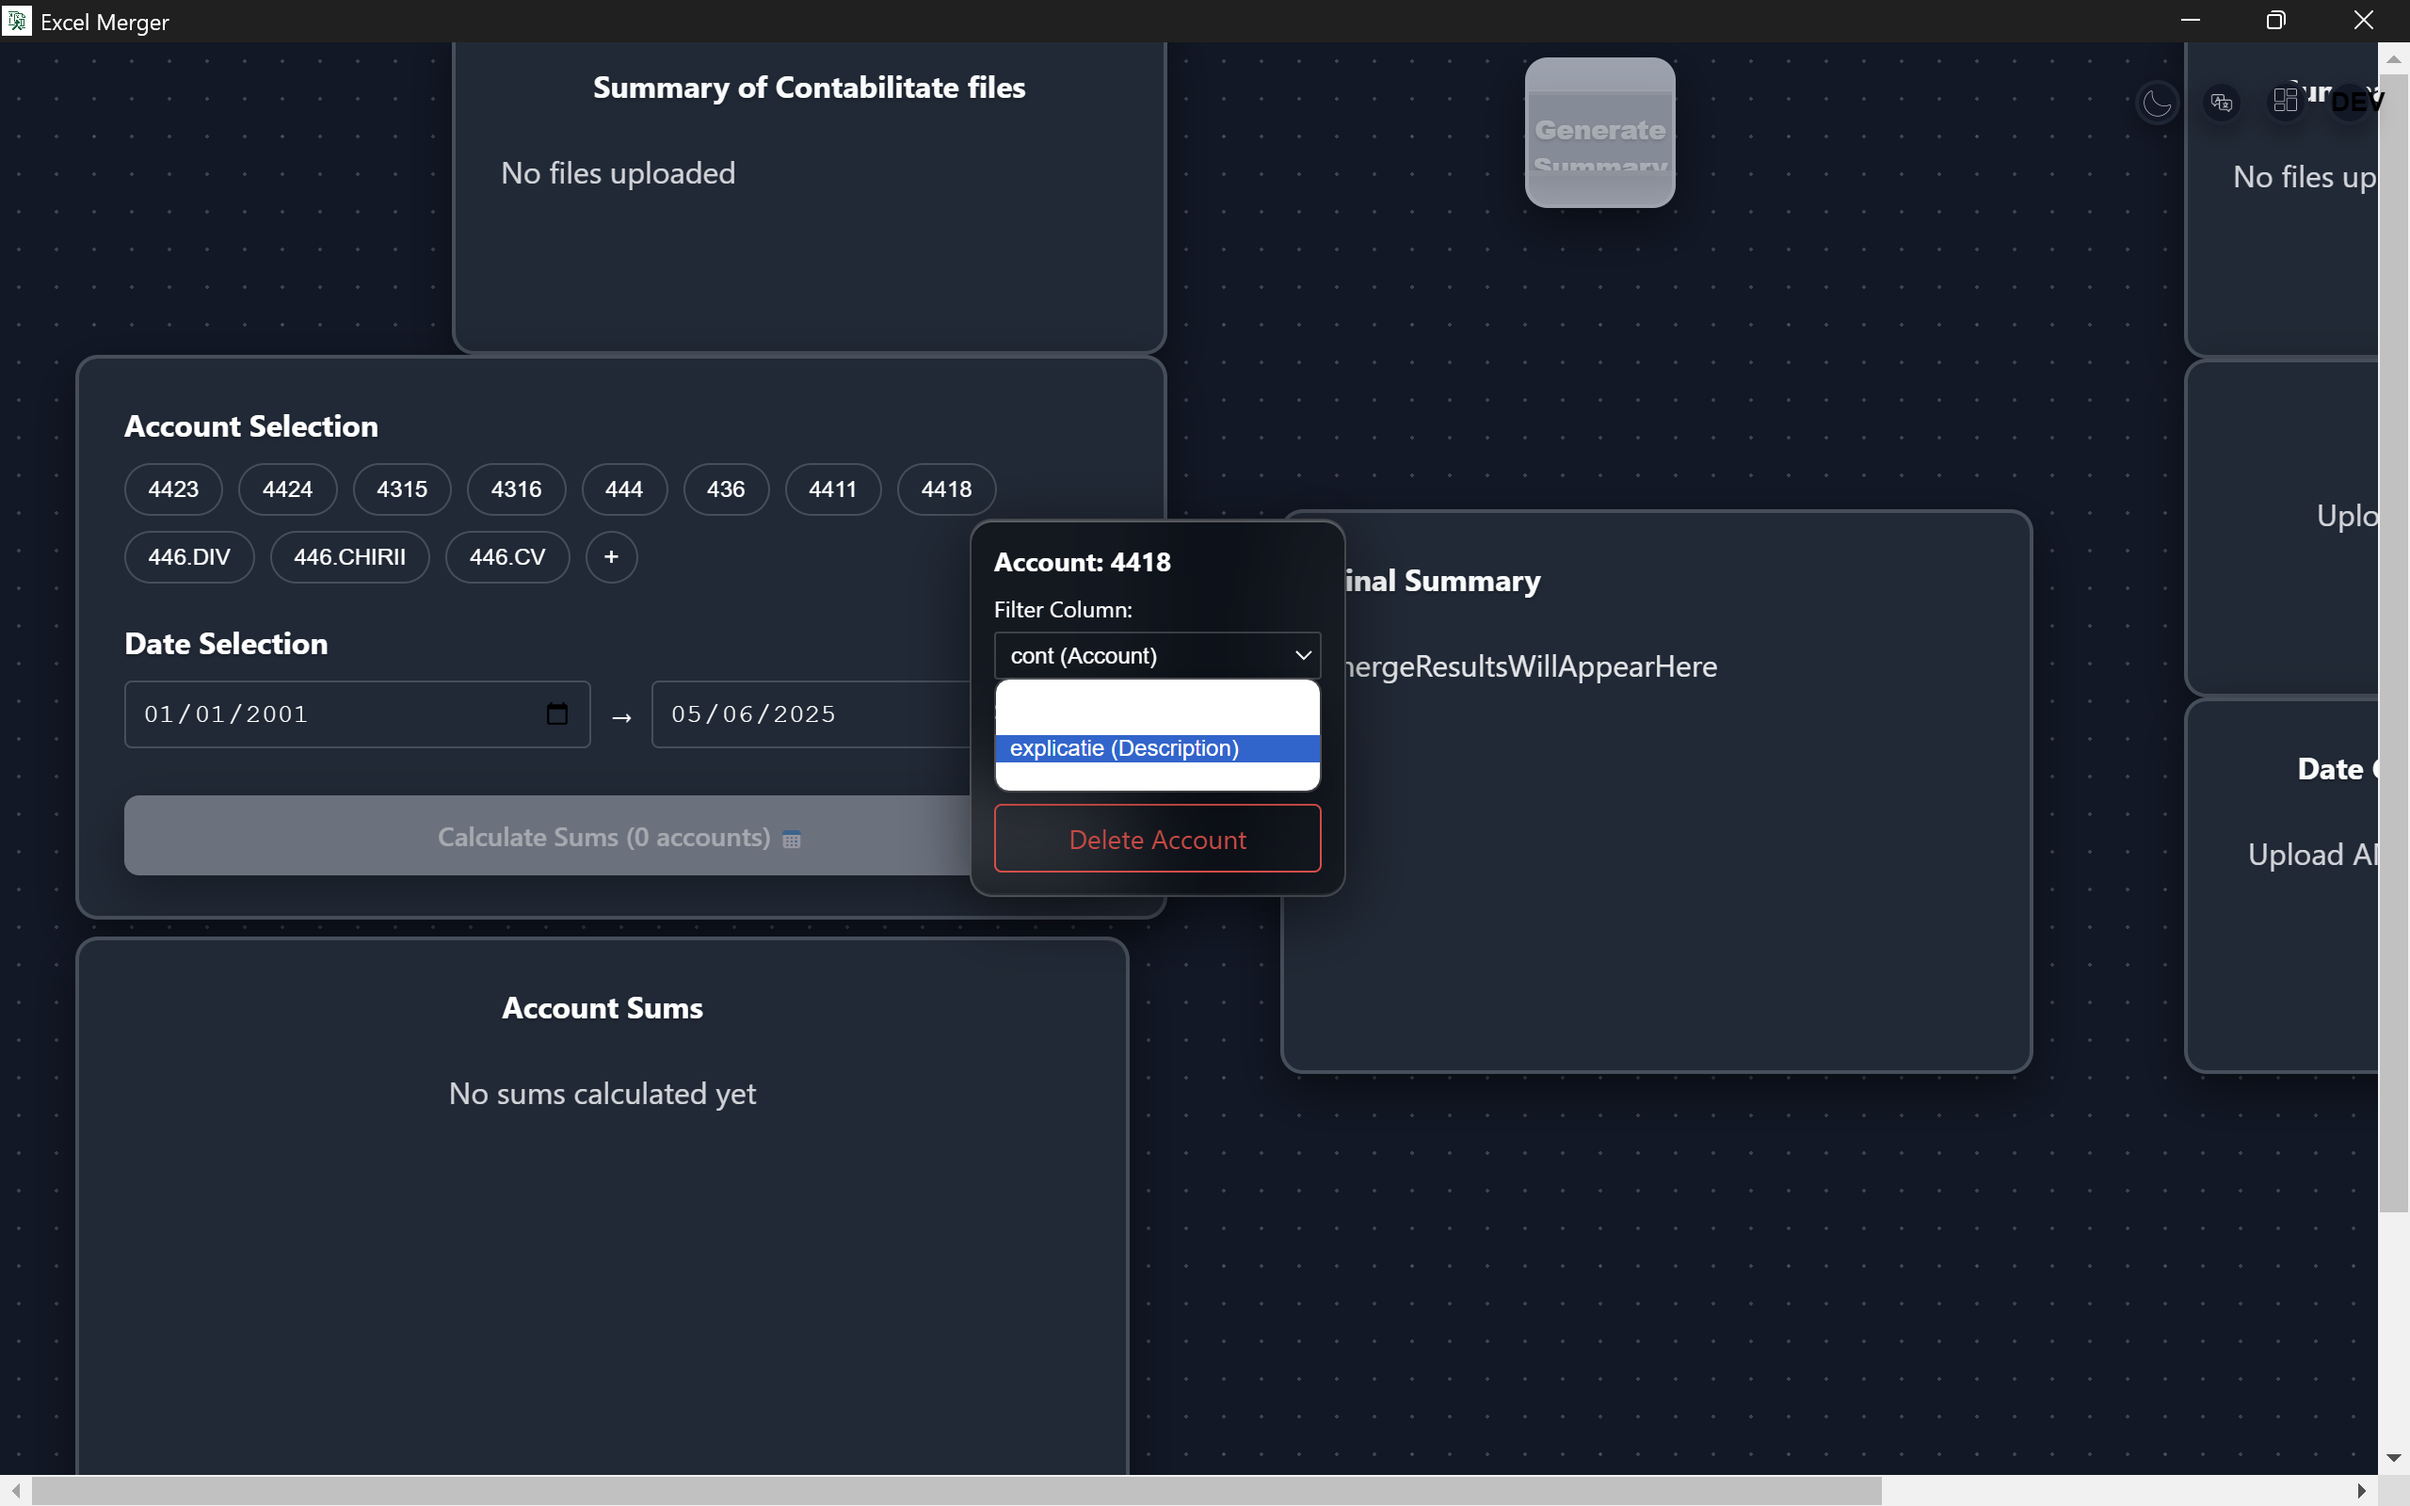
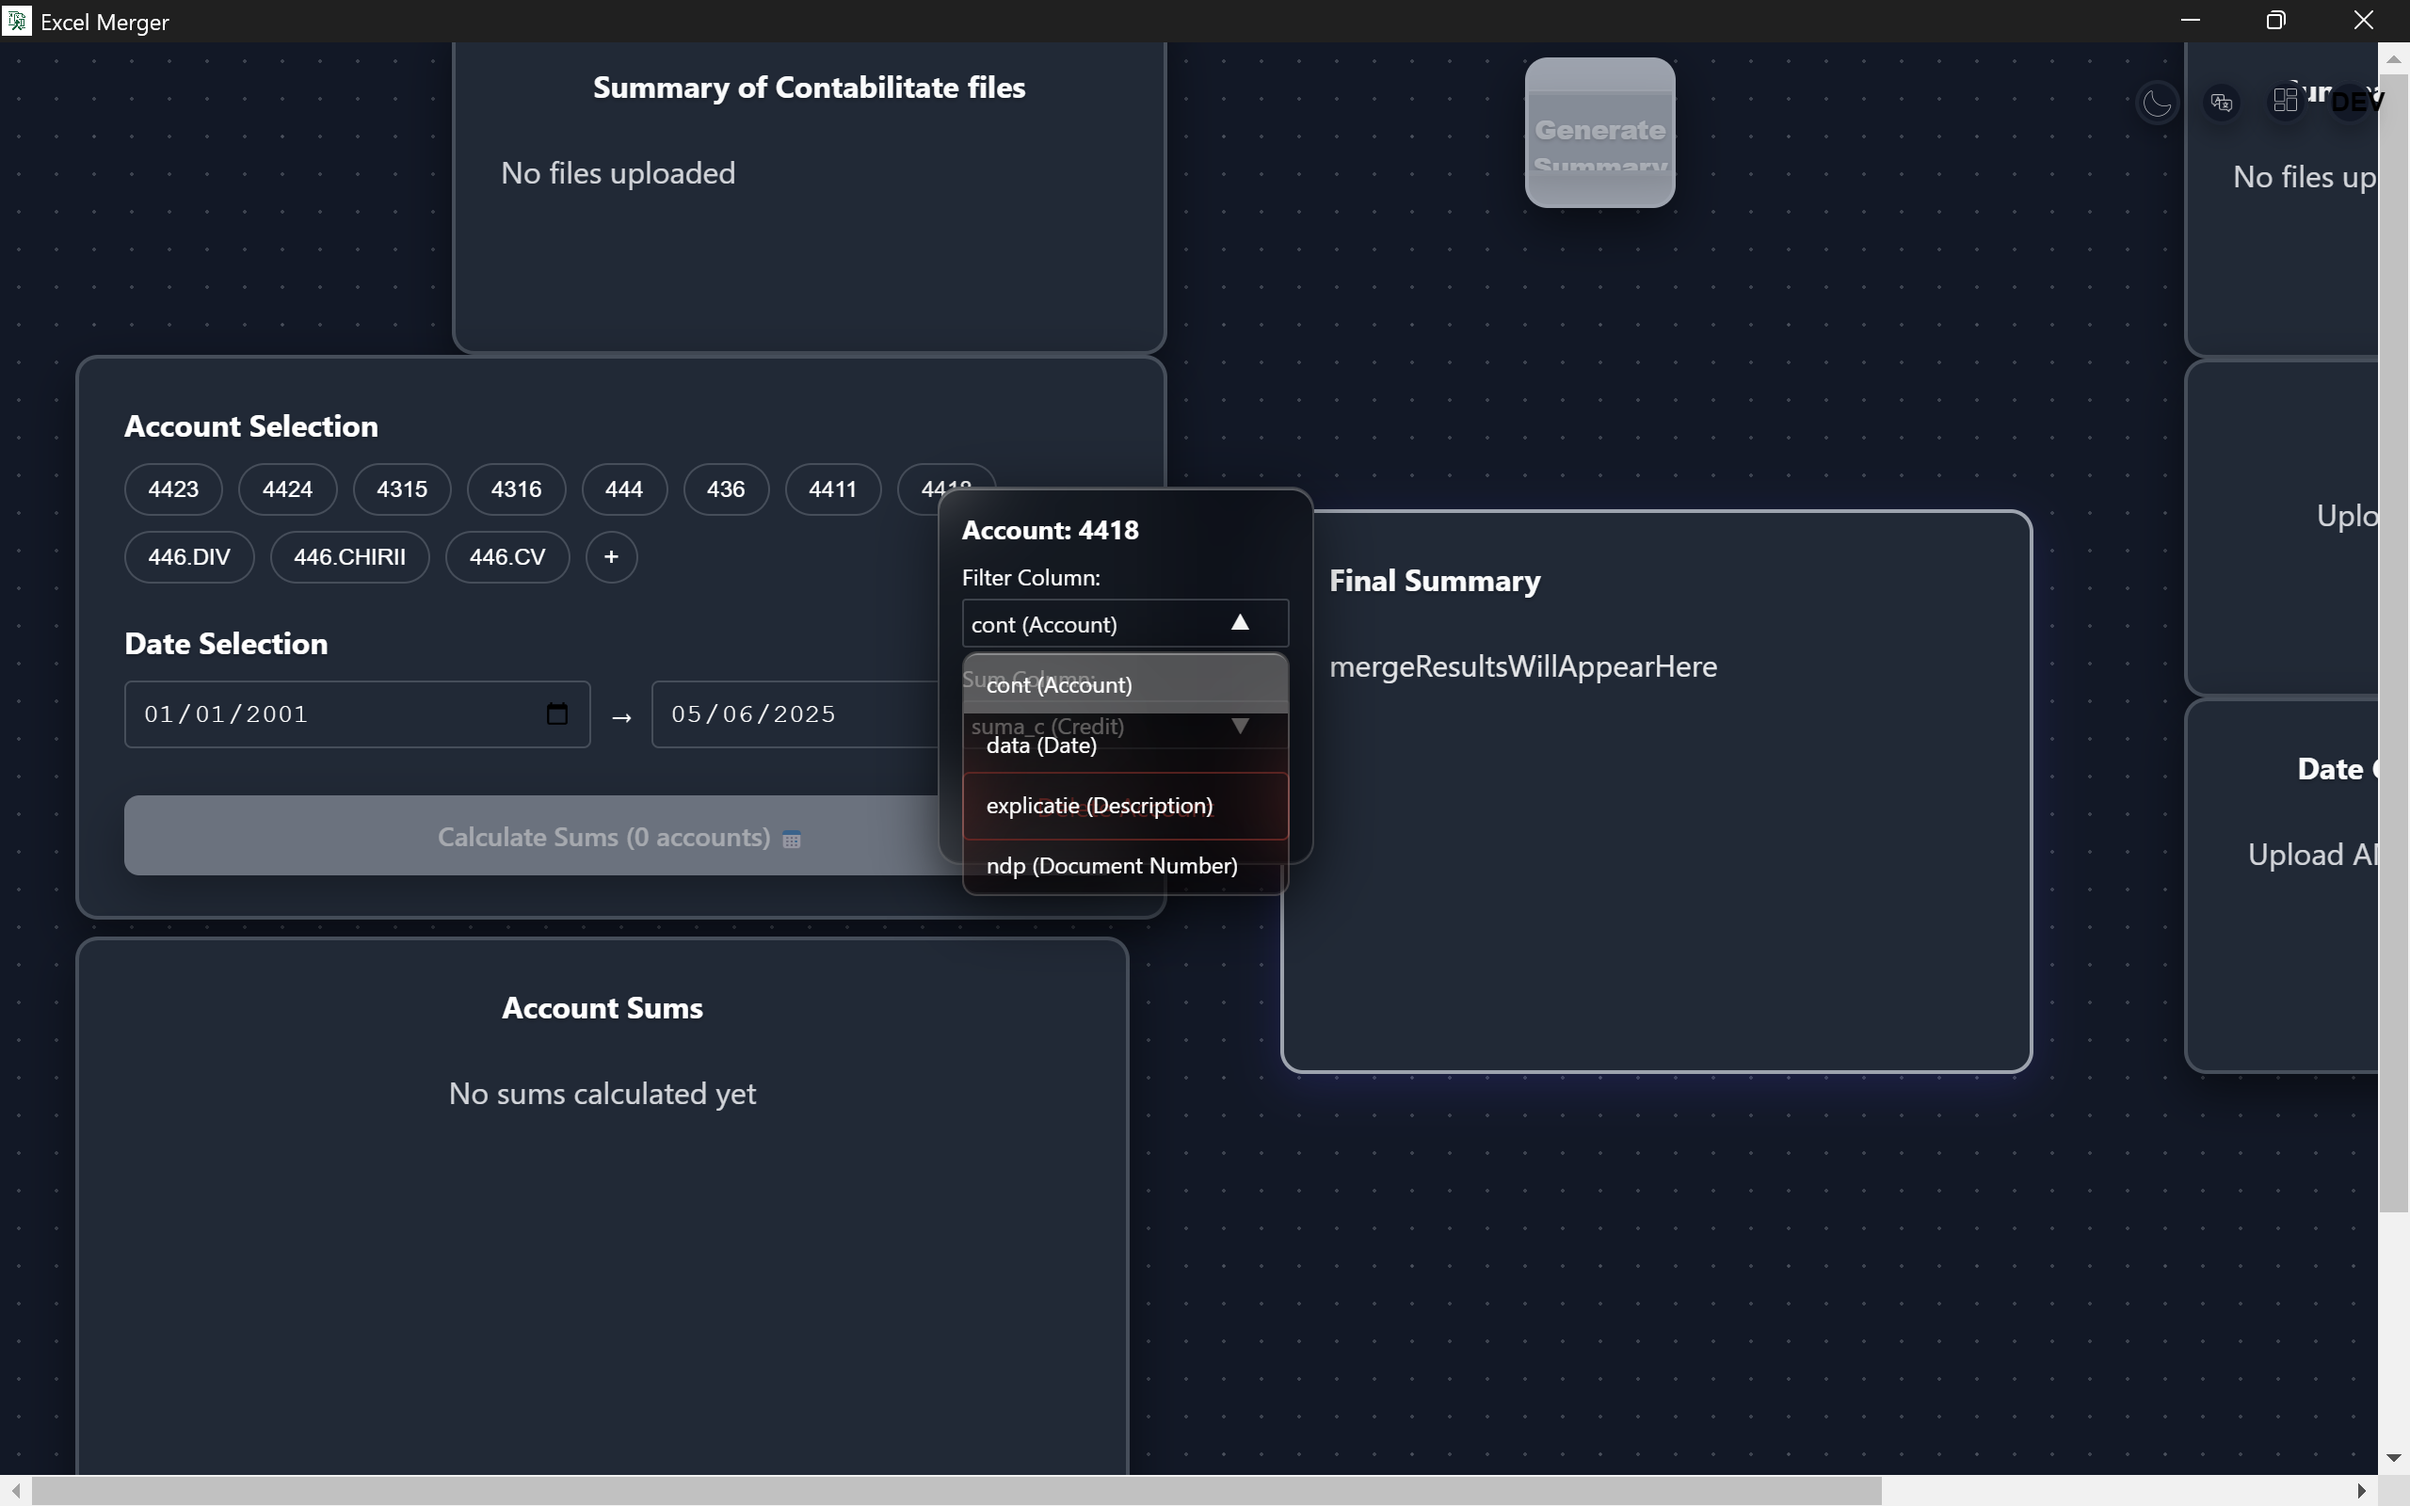
Add glass morphism effect to individual dropdown options with hover states 🤖 Generated with [Claude Code](https://claude.ai/code) Co-Authored-By: Claude <noreply@anthropic.com>

Changed region(s): [[0.375, 0.3125, 0.5625, 0.5938], [0.5312, 0.6875, 0.8438, 0.75]]

diff --git a/src/App.js b/src/App.js
@@ -4110,17 +4110,30 @@ function App() {
                       cursor: 'pointer',
                       borderRadius: index === 0 ? '8px 8px 0 0' : 
                                   index === arr.length - 1 ? '0 0 8px 8px' : '0',
-                      backgroundColor: getAccountConfig(contextMenu.account).filterColumn === option.value ? 
-                                     'var(--glass-highlight, rgba(255, 255, 255, 0.3))' : 'transparent'
+                      background: getAccountConfig(contextMenu.account).filterColumn === option.value ? 
+                        'var(--glass-bg, rgba(255, 255, 255, 0.85))' : 'var(--glass-bg, rgba(255, 255, 255, 0.6))',
+                      backdropFilter: 'blur(15px)',
+                      WebkitBackdropFilter: 'blur(15px)',
+                      border: getAccountConfig(contextMenu.account).filterColumn === option.value ? 
+                        '1px solid var(--glass-border, rgba(0, 0, 0, 0.2))' : '1px solid transparent',
+                      boxShadow: getAccountConfig(contextMenu.account).filterColumn === option.value ? 
+                        `0 2px 8px var(--glass-shadow, rgba(0, 0, 0, 0.1)),
+                         inset 0 1px 0 var(--glass-highlight, rgba(255, 255, 255, 0.8))` : 'none',
+                      margin: '2px',
+                      transition: 'all 0.2s ease'
                     }}
                     onMouseEnter={(e) => {
                       if (getAccountConfig(contextMenu.account).filterColumn !== option.value) {
-                        e.target.style.backgroundColor = 'var(--glass-lowlight, rgba(0, 0, 0, 0.05))';
+                        e.target.style.background = 'var(--glass-bg, rgba(255, 255, 255, 0.75))';
+                        e.target.style.border = '1px solid var(--glass-border, rgba(0, 0, 0, 0.15))';
+                        e.target.style.boxShadow = '0 1px 4px var(--glass-shadow, rgba(0, 0, 0, 0.08))';
                       }
                     }}
                     onMouseLeave={(e) => {
                       if (getAccountConfig(contextMenu.account).filterColumn !== option.value) {
-                        e.target.style.backgroundColor = 'transparent';
+                        e.target.style.background = 'var(--glass-bg, rgba(255, 255, 255, 0.6))';
+                        e.target.style.border = '1px solid transparent';
+                        e.target.style.boxShadow = 'none';
                       }
                     }}
                   >
@@ -4209,17 +4222,30 @@ function App() {
                       cursor: 'pointer',
                       borderRadius: index === 0 ? '8px 8px 0 0' : 
                                   index === arr.length - 1 ? '0 0 8px 8px' : '0',
-                      backgroundColor: getAccountConfig(contextMenu.account).sumColumn === option.value ? 
-                                     'var(--glass-highlight, rgba(255, 255, 255, 0.3))' : 'transparent'
+                      background: getAccountConfig(contextMenu.account).sumColumn === option.value ? 
+                        'var(--glass-bg, rgba(255, 255, 255, 0.85))' : 'var(--glass-bg, rgba(255, 255, 255, 0.6))',
+                      backdropFilter: 'blur(15px)',
+                      WebkitBackdropFilter: 'blur(15px)',
+                      border: getAccountConfig(contextMenu.account).sumColumn === option.value ? 
+                        '1px solid var(--glass-border, rgba(0, 0, 0, 0.2))' : '1px solid transparent',
+                      boxShadow: getAccountConfig(contextMenu.account).sumColumn === option.value ? 
+                        `0 2px 8px var(--glass-shadow, rgba(0, 0, 0, 0.1)),
+                         inset 0 1px 0 var(--glass-highlight, rgba(255, 255, 255, 0.8))` : 'none',
+                      margin: '2px',
+                      transition: 'all 0.2s ease'
                     }}
                     onMouseEnter={(e) => {
                       if (getAccountConfig(contextMenu.account).sumColumn !== option.value) {
-                        e.target.style.backgroundColor = 'var(--glass-lowlight, rgba(0, 0, 0, 0.05))';
+                        e.target.style.background = 'var(--glass-bg, rgba(255, 255, 255, 0.75))';
+                        e.target.style.border = '1px solid var(--glass-border, rgba(0, 0, 0, 0.15))';
+                        e.target.style.boxShadow = '0 1px 4px var(--glass-shadow, rgba(0, 0, 0, 0.08))';
                       }
                     }}
                     onMouseLeave={(e) => {
                       if (getAccountConfig(contextMenu.account).sumColumn !== option.value) {
-                        e.target.style.backgroundColor = 'transparent';
+                        e.target.style.background = 'var(--glass-bg, rgba(255, 255, 255, 0.6))';
+                        e.target.style.border = '1px solid transparent';
+                        e.target.style.boxShadow = 'none';
                       }
                     }}
                   >
